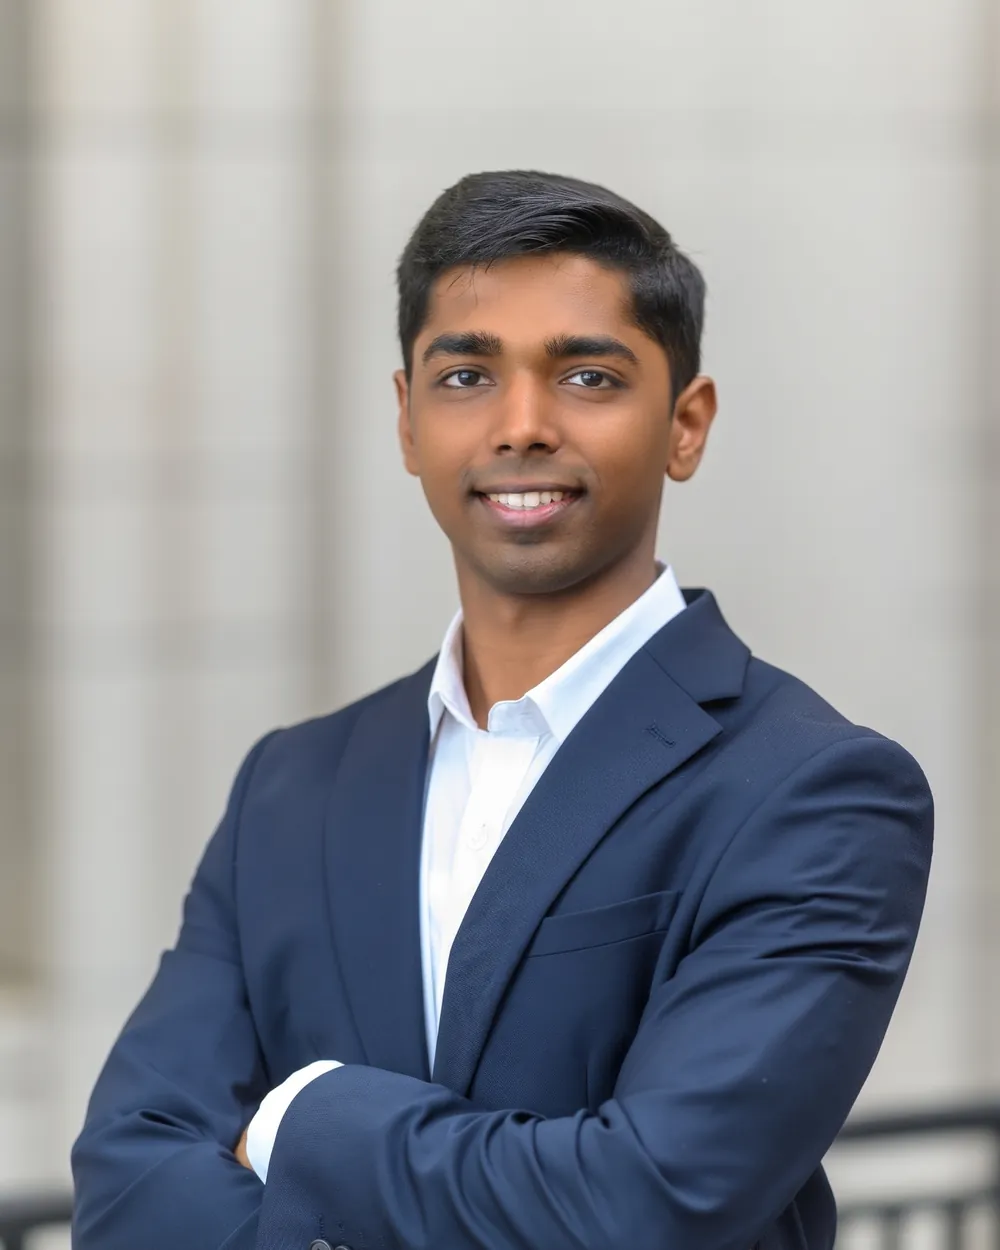
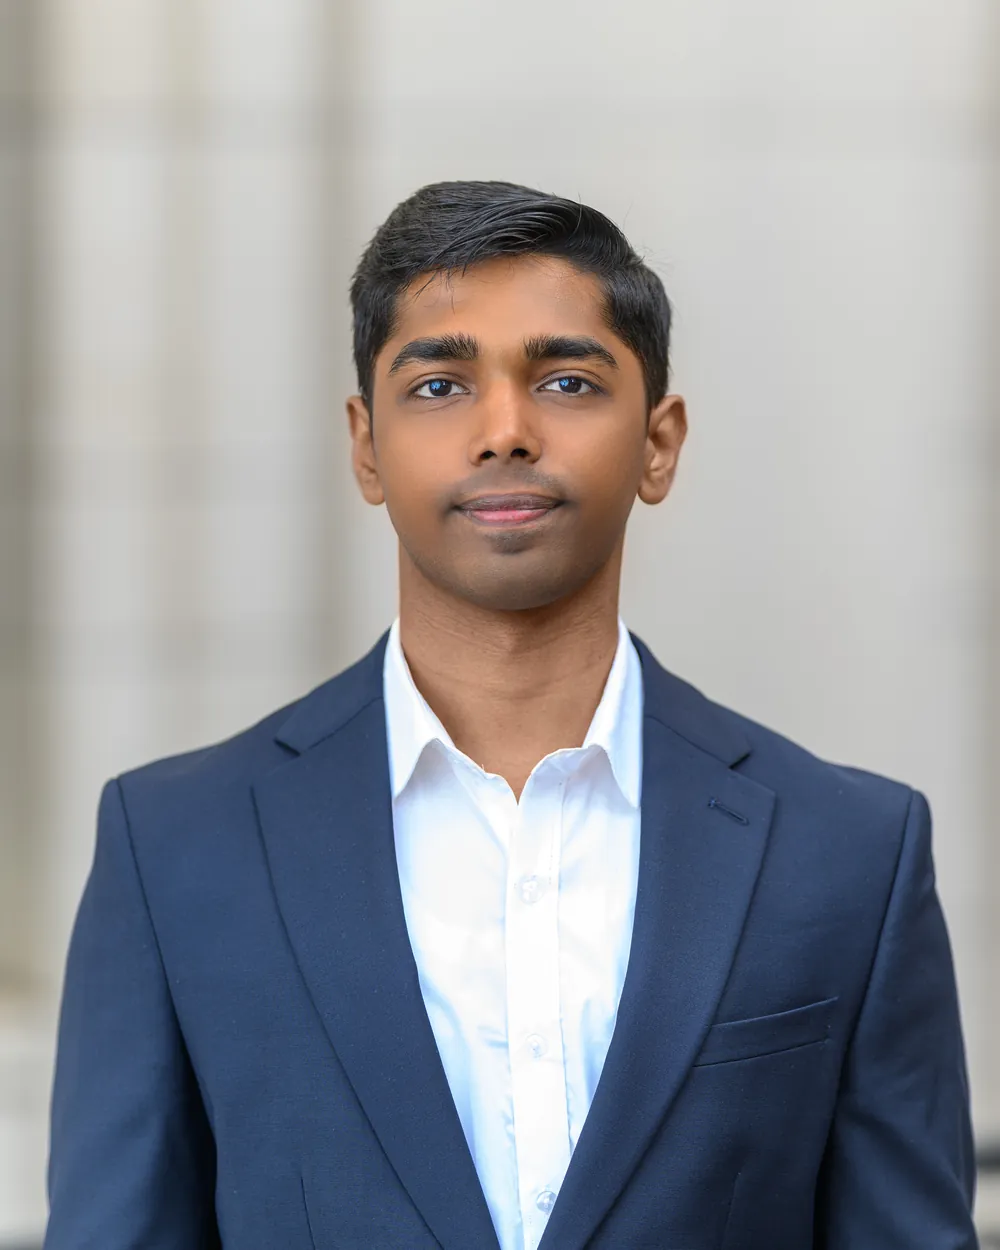
update: replace portrait with the photograph of 17 October
Regenerate the responsive portrait set and the social preview card from the
new photograph, cropped 4 by 5.

diff --git a/index.html b/index.html
@@ -14,14 +14,14 @@
     <meta property="og:url" content="https://smpagare.github.io/personal-site/">
     <meta property="og:title" content="Siddhant Manav Pagare">
     <meta property="og:description" content="Research Assistant in the Department of Political Economy, King's College London. Labour markets, regulation, climate inequality, technology and economics.">
-    <meta property="og:image" content="https://smpagare.github.io/personal-site/og-image.jpg?v=3">
+    <meta property="og:image" content="https://smpagare.github.io/personal-site/og-image.jpg?v=4">
     <meta property="og:image:width" content="1200">
     <meta property="og:image:height" content="630">
     <meta property="og:image:alt" content="Siddhant Manav Pagare, Research Assistant, King's College London">
     <meta name="twitter:card" content="summary_large_image">
     <meta name="twitter:title" content="Siddhant Manav Pagare">
     <meta name="twitter:description" content="Research Assistant in the Department of Political Economy, King's College London. Labour markets, regulation, climate inequality, technology and economics.">
-    <meta name="twitter:image" content="https://smpagare.github.io/personal-site/og-image.jpg?v=3">
+    <meta name="twitter:image" content="https://smpagare.github.io/personal-site/og-image.jpg?v=4">
 
     <link rel="icon" type="image/svg+xml" href="favicon.svg?v=6">
     <link rel="icon" type="image/png" sizes="32x32" href="favicon-32x32.png?v=6">
@@ -138,8 +138,8 @@
                 </div>
                 <figure class="hero-photo">
                     <picture>
-                        <source type="image/webp" srcset="photo-340.webp?v=2 340w, photo-440.webp?v=2 440w, photo-680.webp?v=2 680w, photo-1000.webp?v=2 1000w" sizes="(max-width: 760px) 220px, 340px">
-                        <img src="photo-680.jpg?v=2" srcset="photo-340.jpg?v=2 340w, photo-440.jpg?v=2 440w, photo-680.jpg?v=2 680w, photo-1000.jpg?v=2 1000w" sizes="(max-width: 760px) 220px, 340px" alt="Portrait of Siddhant Manav Pagare" width="680" height="850" fetchpriority="high">
+                        <source type="image/webp" srcset="photo-340.webp?v=3 340w, photo-440.webp?v=3 440w, photo-680.webp?v=3 680w, photo-1000.webp?v=3 1000w" sizes="(max-width: 760px) 220px, 340px">
+                        <img src="photo-680.jpg?v=3" srcset="photo-340.jpg?v=3 340w, photo-440.jpg?v=3 440w, photo-680.jpg?v=3 680w, photo-1000.jpg?v=3 1000w" sizes="(max-width: 760px) 220px, 340px" alt="Portrait of Siddhant Manav Pagare" width="680" height="850" fetchpriority="high">
                     </picture>
                     <figcaption class="caption">London, 2026</figcaption>
                 </figure>

diff --git a/resources.html b/resources.html
@@ -13,14 +13,14 @@
     <meta property="og:title" content="Public Goods, Siddhant Manav Pagare">
     <meta property="og:description" content="A searchable library of free resources for economics students and research assistants: the RA job market, graduate school, empirical methods and datasets.">
     <meta property="og:url" content="https://smpagare.github.io/personal-site/resources.html">
-    <meta property="og:image" content="https://smpagare.github.io/personal-site/og-image.jpg?v=3">
+    <meta property="og:image" content="https://smpagare.github.io/personal-site/og-image.jpg?v=4">
     <meta property="og:image:width" content="1200">
     <meta property="og:image:height" content="630">
     <meta property="og:image:alt" content="Siddhant Manav Pagare, Research Assistant, King's College London">
     <meta name="twitter:card" content="summary_large_image">
     <meta name="twitter:title" content="Public Goods, Siddhant Manav Pagare">
     <meta name="twitter:description" content="A searchable library of free resources for economics students and research assistants: the RA job market, graduate school, empirical methods and datasets.">
-    <meta name="twitter:image" content="https://smpagare.github.io/personal-site/og-image.jpg?v=3">
+    <meta name="twitter:image" content="https://smpagare.github.io/personal-site/og-image.jpg?v=4">
 
     <link rel="icon" type="image/svg+xml" href="favicon.svg?v=6">
     <link rel="icon" type="image/png" sizes="32x32" href="favicon-32x32.png?v=6">

diff --git a/research.html b/research.html
@@ -13,14 +13,14 @@
     <meta property="og:title" content="Research, Siddhant Manav Pagare">
     <meta property="og:description" content="Working papers, current projects and dissertation by Siddhant Manav Pagare: India's labour codes, environmental regulatory uncertainty, telework and wages.">
     <meta property="og:url" content="https://smpagare.github.io/personal-site/research.html">
-    <meta property="og:image" content="https://smpagare.github.io/personal-site/og-image.jpg?v=3">
+    <meta property="og:image" content="https://smpagare.github.io/personal-site/og-image.jpg?v=4">
     <meta property="og:image:width" content="1200">
     <meta property="og:image:height" content="630">
     <meta property="og:image:alt" content="Siddhant Manav Pagare, Research Assistant, King's College London">
     <meta name="twitter:card" content="summary_large_image">
     <meta name="twitter:title" content="Research, Siddhant Manav Pagare">
     <meta name="twitter:description" content="Working papers, current projects and dissertation by Siddhant Manav Pagare: India's labour codes, environmental regulatory uncertainty, telework and wages.">
-    <meta name="twitter:image" content="https://smpagare.github.io/personal-site/og-image.jpg?v=3">
+    <meta name="twitter:image" content="https://smpagare.github.io/personal-site/og-image.jpg?v=4">
 
     <link rel="icon" type="image/svg+xml" href="favicon.svg?v=6">
     <link rel="icon" type="image/png" sizes="32x32" href="favicon-32x32.png?v=6">

diff --git a/writing.html b/writing.html
@@ -13,14 +13,14 @@
     <meta property="og:title" content="Writing, Siddhant Manav Pagare">
     <meta property="og:description" content="Commentary and policy writing by Siddhant Manav Pagare, including a plain language summary of his article on India's labour codes.">
     <meta property="og:url" content="https://smpagare.github.io/personal-site/writing.html">
-    <meta property="og:image" content="https://smpagare.github.io/personal-site/og-image.jpg?v=3">
+    <meta property="og:image" content="https://smpagare.github.io/personal-site/og-image.jpg?v=4">
     <meta property="og:image:width" content="1200">
     <meta property="og:image:height" content="630">
     <meta property="og:image:alt" content="Siddhant Manav Pagare, Research Assistant, King's College London">
     <meta name="twitter:card" content="summary_large_image">
     <meta name="twitter:title" content="Writing, Siddhant Manav Pagare">
     <meta name="twitter:description" content="Commentary and policy writing by Siddhant Manav Pagare, including a plain language summary of his article on India's labour codes.">
-    <meta name="twitter:image" content="https://smpagare.github.io/personal-site/og-image.jpg?v=3">
+    <meta name="twitter:image" content="https://smpagare.github.io/personal-site/og-image.jpg?v=4">
 
     <link rel="icon" type="image/svg+xml" href="favicon.svg?v=6">
     <link rel="icon" type="image/png" sizes="32x32" href="favicon-32x32.png?v=6">
